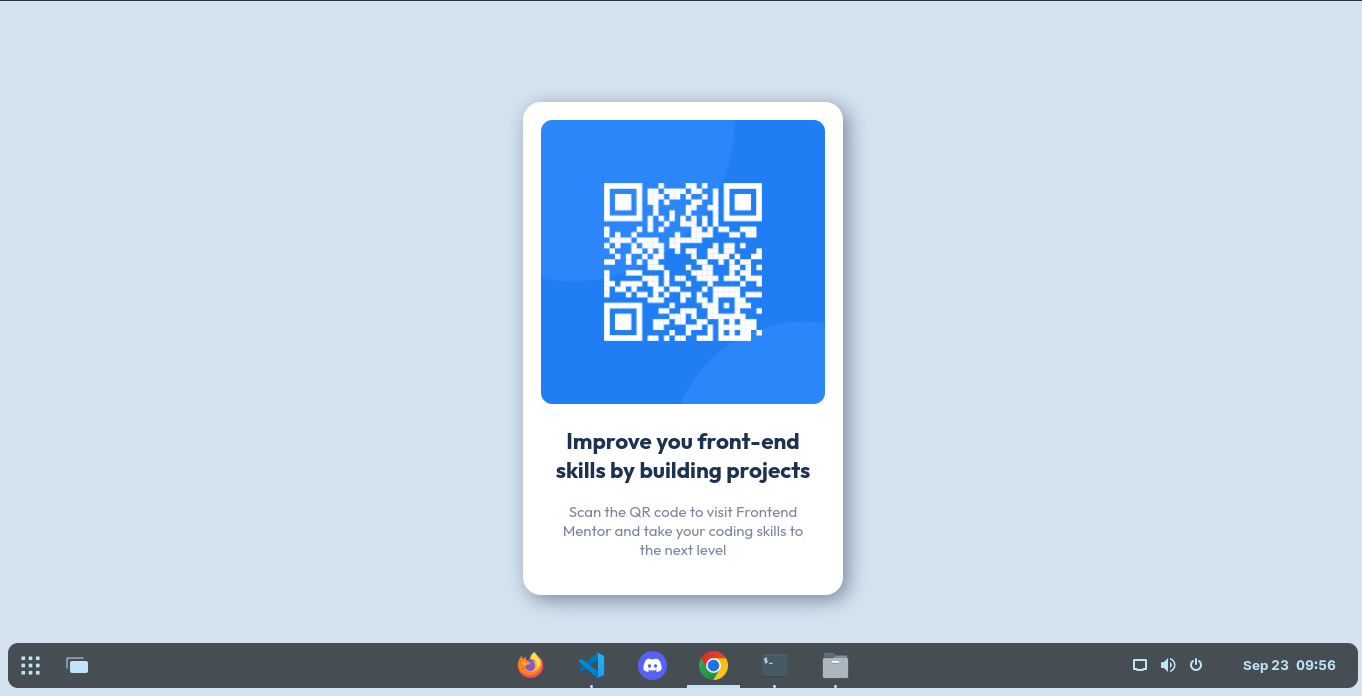
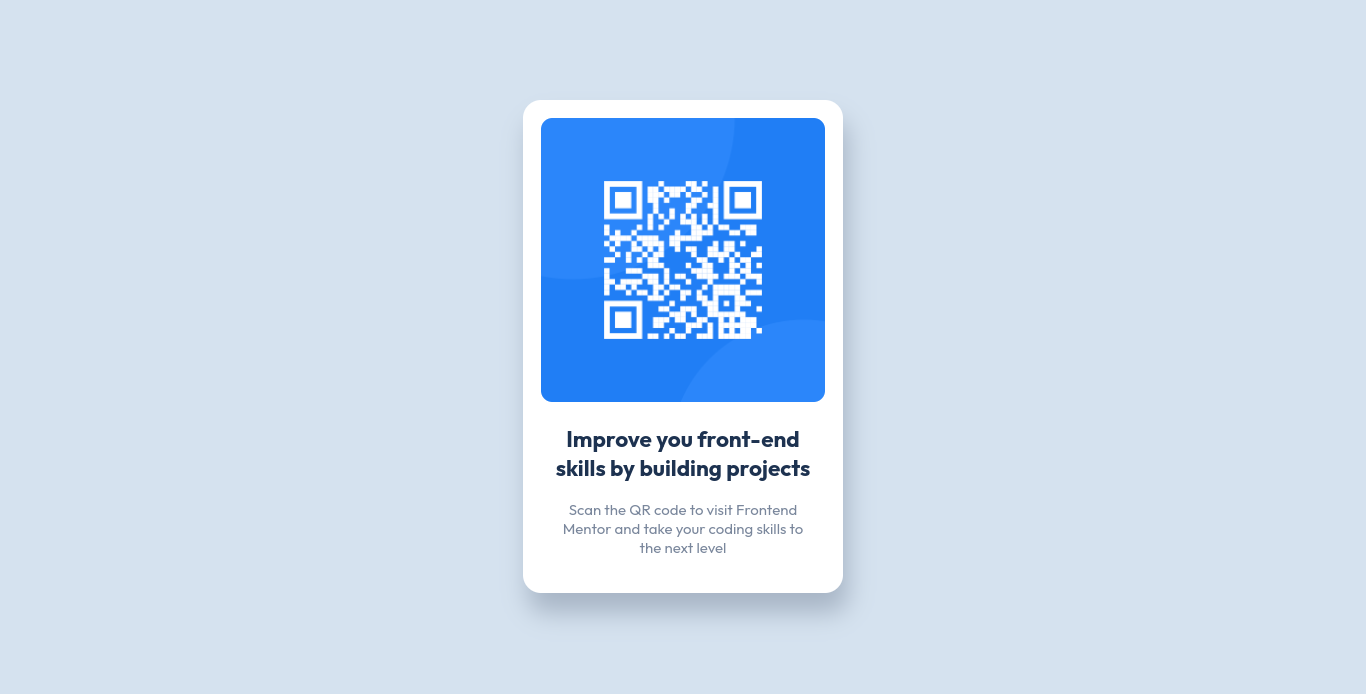
edited the html file for some typo and edited the css file for some color changes.

diff --git a/style.css b/style.css
@@ -12,6 +12,7 @@
   --light-gray: hsl(212, 45%, 89%);
   --grayish-blue: hsl(220, 15%, 55%);
   --dark-gray: hsl(218, 44%, 22%);
+  --shadow: hsl(220, 15%, 55%, 0.5);
 }
 
 
@@ -40,7 +41,7 @@ main {
     background-color: var(--white);
     padding: 1.2rem;
     border-radius: 1.2rem;
-    box-shadow: 5px 5px 20px var(--grayish-blue);
+    box-shadow: 5px 20px 25px var(--shadow);
 }
 
 .qrcode {

diff --git a/index.html b/index.html
@@ -11,7 +11,7 @@
 <body>
   <main>
     <img src="./images/image-qr-code.png" alt="qrcode" class="qrcode">
-    <h1>Improve you front-end skills by building projects</h1>
+    <h1>Improve your front-end skills by building projects</h1>
     <p>Scan the QR code to visit Frontend Mentor and take your coding skills to the next level</p>
   </main>
 </body>
